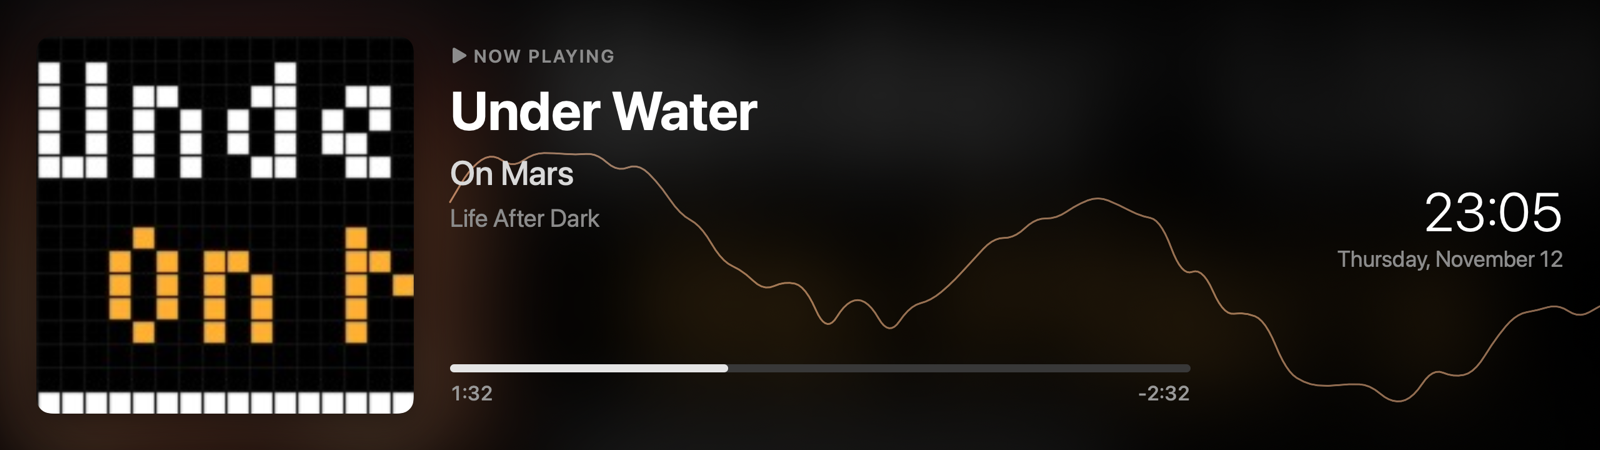
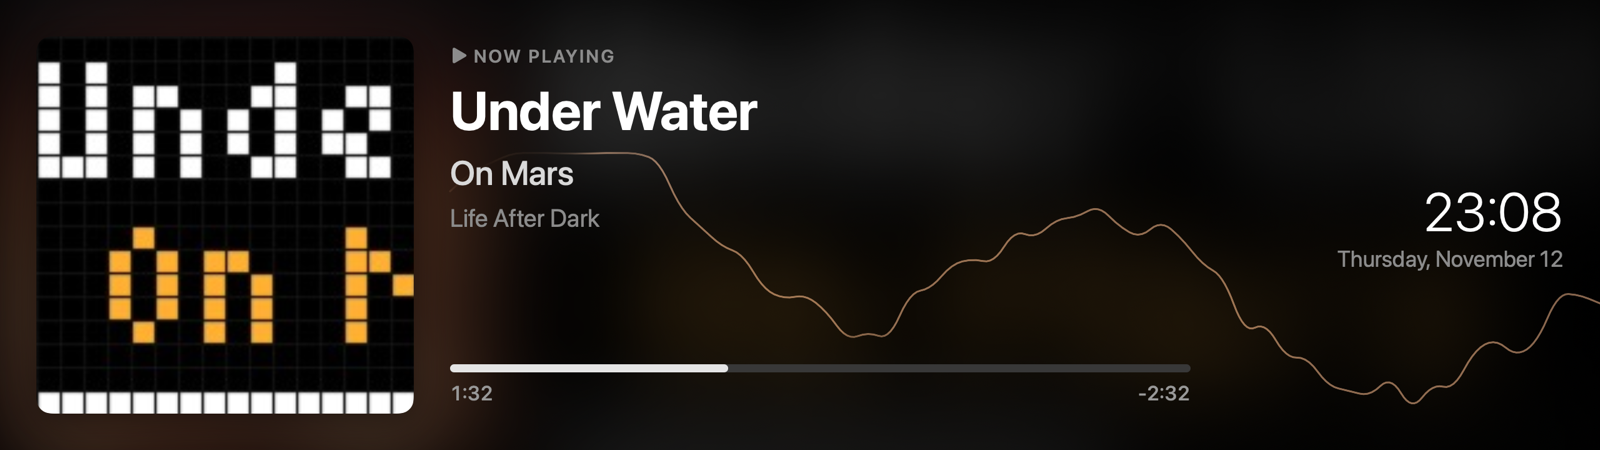
Fade the wave out in a soft halo around the text and progress bar

diff --git a/Sources/EdgeNowPlaying/NowPlayingView.swift b/Sources/EdgeNowPlaying/NowPlayingView.swift
@@ -13,19 +13,27 @@ struct NowPlayingView: View {
                 if music.state == .off || music.state == .stopped || music.title.isEmpty {
                     idle(h: h)
                 } else {
-                    HStack(spacing: pad) {
-                        art(side: h - 2 * pad)
-                        info(h: h).frame(maxWidth: .infinity, alignment: .leading)
-                        ClockView(size: h * 0.12, dateSize: h * 0.05)
-                            .frame(width: h * 0.75, alignment: .trailing)
+                    WaveView(spectrum: music.tap.spectrum, color: Color(nsColor: music.accent),
+                             active: music.state == .playing, fade: h * 0.035) {
+                        playing(h: h, pad: pad)
                     }
-                    .padding(pad)
+                    playing(h: h, pad: pad)
                 }
             }
             .frame(width: geo.size.width, height: h)
         }
         .ignoresSafeArea()
         .environment(\.colorScheme, .dark)
+    }
+
+    private func playing(h: CGFloat, pad: CGFloat) -> some View {
+        HStack(spacing: pad) {
+            art(side: h - 2 * pad)
+            info(h: h).frame(maxWidth: .infinity, alignment: .leading)
+            ClockView(size: h * 0.12, dateSize: h * 0.05)
+                .frame(width: h * 0.75, alignment: .trailing)
+        }
+        .padding(pad)
     }
 
     private var background: some View {
@@ -39,8 +47,6 @@ struct NowPlayingView: View {
             .clipped()
             LinearGradient(colors: [.black.opacity(0.15), .black.opacity(0.6)],
                            startPoint: .leading, endPoint: .trailing)
-            WaveView(spectrum: music.tap.spectrum, color: Color(nsColor: music.accent),
-                     active: music.state == .playing)
         }
         .animation(.easeInOut(duration: 0.8), value: music.title)
     }
@@ -159,10 +165,13 @@ struct ClockView: View {
 
 /// Spectrum drawn as one crisp line (bass on the left, treble on the right), from the right edge of
 /// the artwork to the right edge of the screen.
-struct WaveView: View {
+/// `cutout` is the content drawn on top; the line fades out in a soft halo around it.
+struct WaveView<Cutout: View>: View {
     let spectrum: Spectrum
     let color: Color
     let active: Bool
+    let fade: CGFloat
+    @ViewBuilder let cutout: () -> Cutout
 
     var body: some View {
         TimelineView(.animation(minimumInterval: 1.0 / 40)) { tl in
@@ -176,6 +185,22 @@ struct WaveView: View {
                 // Artwork is a square inset by `pad` on a strip `height` tall, so it ends at x = height.
                 let area = CGRect(x: size.height, y: 0, width: size.width - size.height, height: size.height)
                 stroke(bands, scale: 1.0, in: area, ctx: ctx, opacity: 0.6, width: 3)
+                if let sym = ctx.resolveSymbol(id: 0) {
+                    var c = ctx
+                    c.blendMode = .destinationOut
+                    c.drawLayer { l in
+                        // Thicken the content (copies around a circle), then soften the edge.
+                        l.addFilter(.blur(radius: fade * 0.6))
+                        let r = CGRect(origin: .zero, size: size)
+                        l.draw(sym, in: r)
+                        for k in 0..<12 {
+                            let a = Double(k) / 12 * 2 * .pi
+                            l.draw(sym, in: r.offsetBy(dx: cos(a) * fade, dy: sin(a) * fade))
+                        }
+                    }
+                }
+            } symbols: {
+                cutout().tag(0)
             }
             .blendMode(.plusLighter)
         }
